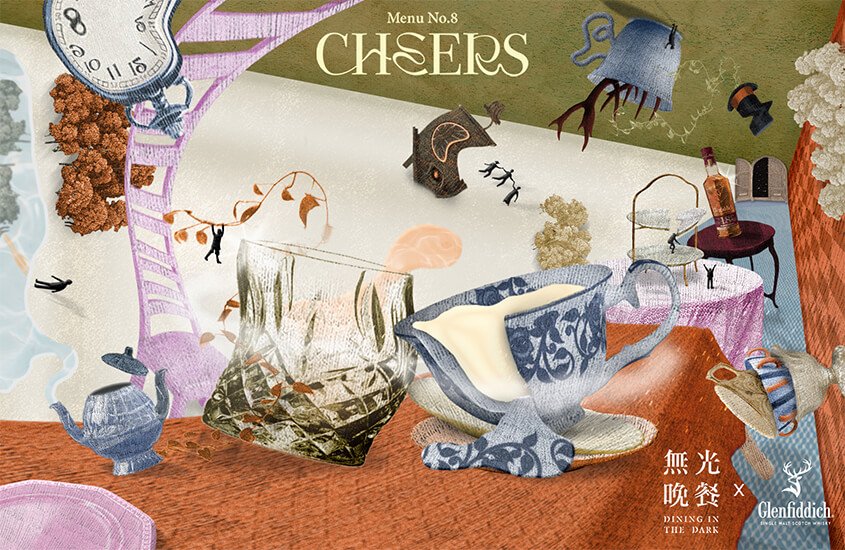
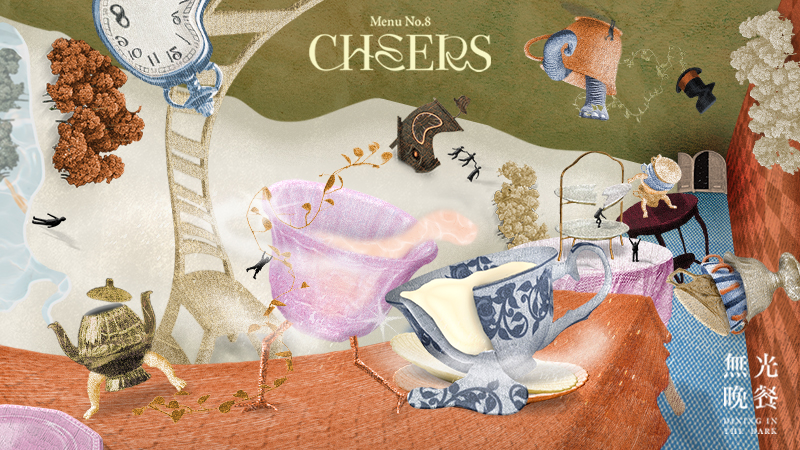
無光格蘭菲迪下線

diff --git a/public/dininginthedark3/js/board-modal.js b/public/dininginthedark3/js/board-modal.js
@@ -60,10 +60,10 @@ $(function() {
     $enter_modal_btn.on('click', function(event) {
         $enter_modal.fadeOut(250, function () {
             $('body').removeClass('modal-open');
-            if ( sessionStorage.getItem('dialog_noshow') !== 'true' ) {
-                $('#enter-dialog').fadeIn();
-                setEnterDialogSize();
-            }
+            // if ( sessionStorage.getItem('dialog_noshow') !== 'true' ) {
+            //     $('#enter-dialog').fadeIn();
+            //     setEnterDialogSize();
+            // }
         });
     });
 

diff --git a/resources/views/dininginthedark3/frontend/booking_pay.blade.php b/resources/views/dininginthedark3/frontend/booking_pay.blade.php
@@ -178,17 +178,11 @@
                             請點選你的預約人數
                         </p>
                         <ul class="prefix-dash">
-                            <!-- <li>單一場次最高可容納 12 人</li>
-                            <li>為維護體驗品質，體驗時將兩人一組入座，且無法併桌</li> -->
-                            <li>無光晚餐僅接受雙數訂位，且必須雙數入席。</li>
+                            <li>無光晚餐僅接受雙數訂位、雙數入席；為維護體驗品質，安排兩人一組入座，且無法併桌</li>
                             <li>單一場次最高可容納 12 人，若人數為12人或以上，歡迎預約包場。請來信客服 dininginthedark@surpriselab.com.tw</li>
-                            <li>無光晚餐每人優惠價格為2,200元/人</li>
-                            <li>票價已含10%服務費</li>
-                            <li>為維護體驗品質，體驗時將兩人一組入座，且無法併桌</li>
+                            <li>無光晚餐每人優惠價格為新台幣2,200元/人 (已含10%服務費)，若遇特殊場次除外</li>
                             <li>若日期無法選擇，代表該場次已滿，或是當日不開放</li>
-                            <!-- <li>8/9及8/11七夕限定場｜熱戀慶祝夜，含獨家愛情調飲與限量祝福禮，優惠價$2,600/人</li> -->
-                            <li>今日起至 7月31日為格蘭菲迪 Glenfiddich 跨界合作限定體驗。</li>
-                            <li style="color: #f7f7c6;">未滿18歲不得飲酒，禁止酒駕。</li>
+                            <!-- <li style="color: #f7f7c6;">未滿18歲不得飲酒，禁止酒駕。</li> -->
                         </ul>
                         <br/><br/>
 
@@ -381,7 +375,7 @@
                                         </select>
                                         <label class="unit">位 Guests</label>
                                     </div>
-                                    <div class="form-col amount">
+                                    <!-- <div class="form-col amount">
                                         <label class="form-label" for="meat_food_noAllAlcohol">
                                             酒精過敏
                                             <span class="en">Alcohol Allergy</span>
@@ -389,7 +383,7 @@
                                         <select id="meat_food_noAllAlcohol" name="meat_food_noAllAlcohol" data-placeholder="選擇人數" required disabled>
                                         </select>
                                         <label class="unit">位 Guests</label>
-                                    </div>
+                                    </div> -->
                                 </div>
                             </div>
                             <div class="form-row">
@@ -426,7 +420,7 @@
                                         </select>
                                         <label class="unit">位 Guests</label>
                                     </div>
-                                    <div class="form-col amount">
+                                    <!-- <div class="form-col amount">
                                         <label class="form-label" for="vegetarian_food_noAlcohol">
                                             酒精過敏
                                             <span class="en">No Alcohol</span>
@@ -434,7 +428,7 @@
                                         <select id="vegetarian_food_noAlcohol" name="vegetarian_food_noAlcohol" data-placeholder="選擇人數" required disabled>
                                         </select>
                                         <label class="unit">位 Guests</label>
-                                    </div>
+                                    </div> -->
                                 </div>
                             </div>
 
@@ -447,7 +441,7 @@
 
                         <div class="field-intro">
                             <br><br>
-                            <p style="color: #f7f7c6; line-height: 1.7;">今日起至7月31日為格蘭菲迪 Glenfiddich 跨界合作體驗，未滿18歲禁止飲酒。</p>
+                            <!-- <p style="color: #f7f7c6; line-height: 1.7;">今日起至7月31日為格蘭菲迪 Glenfiddich 跨界合作體驗，未滿18歲禁止飲酒。</p> -->
                         </div>
                         
                         <div class="form-group radio__button">
@@ -480,7 +474,7 @@
                                 </li>
                                 <li>無光晚餐僅依照顧客過敏狀況調整餐點，請確實填寫餐飲過敏狀況與人數。</li>
                                 <li>無光晚餐將依照訂位過敏資訊準備體驗內容，現場無法更改。</li>
-                                <li><u>格蘭菲迪 Glenfiddich 跨界合作</u>，現場提供有酒精飲品，若因其他因素不能飲用，可告知工作人員不能飲用，無提供無酒精飲品替換。</li>
+                                <!-- <li><u>格蘭菲迪 Glenfiddich 跨界合作</u>，現場提供有酒精飲品，若因其他因素不能飲用，可告知工作人員不能飲用，無提供無酒精飲品替換。</li> -->
                             </ul>
                         </div>
 
@@ -573,8 +567,9 @@
                         <ul>
                             <li>即將跳轉離開網站，進入結帳流程，完成付款。</li>
                             <li>完成付款後，Email信箱中會收到訂位確認信，請前往確認。</li>
-                            <li>八號全新菜單與 格蘭菲迪 跨界合作。</li>
-                            <li>未滿18歲<span style="color: #f7f7c6;">不得參加、不能飲酒。</span></li>
+                            <!-- <li>八號全新菜單與 格蘭菲迪 跨界合作。</li> -->
+                            <!-- <li>未滿18歲<span style="color: #f7f7c6;">不得參加、不能飲酒。</span></li> -->
+                            <li>不開放未滿16歲孩童參加</li>
                         </ul>
 
                         <div class="feature-btn d-flex justify-content-between multi-btn">
@@ -728,9 +723,9 @@
                         <p>&nbsp;</p>
                         <p>
                             再次提醒：<br>
-                            若您有嚴重的乳糖不耐症，請斟酌體驗。<br>
-                            素食套餐僅提供<span style="color: #ff4242;">五辛蛋奶素</span>。<br>
-                            未滿18歲禁止飲酒，且不得參與體驗。
+                            若您有嚴重的乳糖不耐症，不建議前來體驗。<br>
+                            素食套餐僅提供<span style="color: #ff4242;">五辛蛋奶素</span>。
+                            <!-- 未滿18歲禁止飲酒，且不得參與體驗。 -->
                         </p>
                     </div>
                 </div>
@@ -779,10 +774,10 @@
         </ul>
     </aside>
 
-    <div id="notice-banner">
+    <!-- <div id="notice-banner">
         <img class="d-none d-md-block" src="img/general/notice.jpg" alt="無光晚餐 Dining In The Dark">
         <img class="d-block d-md-none" src="img/general/notice_m.jpg" alt="無光晚餐 Dining In The Dark">
-    </div>
+    </div> -->
 
     <!-- Bootstrap -->
     <script src="js/plugins/jquery-3.3.1.min.js"></script>

diff --git a/resources/views/dininginthedark3/frontend/home.blade.php b/resources/views/dininginthedark3/frontend/home.blade.php
@@ -160,7 +160,7 @@ height="0" width="0" style="display:none;visibility:hidden"></iframe></noscript>
                             <div class="section-header">
                                 <div class="section-title">
                                     <h3>體驗內容</h3>
-                                    <h4 style="color: #f7f7c6;">全新8號菜單｜CHEERS！<br>“一場屬於大人的魔幻茶會！”</h4>
+                                    <h4 style="color: #f7f7c6;">全新8號菜單｜CHEERS！<br>“一場慶祝魔幻茶會！”</h4>
                                 </div>
                                 <!-- <p class="section-desc">
                                     <b>6 號菜單 ON AIR</b>
@@ -189,7 +189,7 @@ height="0" width="0" style="display:none;visibility:hidden"></iframe></noscript>
                                                             <!-- 1 -->
                                                             <div class="item">
                                                                 <figure class="slideshow-card">
-                                                                    <img class="img-fluid owl-lazy" data-src="img/home/about/about-intro-1.png?240527" data-src-retina="img/home/about/about-intro-1.png?240527" alt="無光晚餐體驗內容">
+                                                                    <img class="img-fluid owl-lazy" data-src="img/home/about/about-intro-1.jpg?240729" data-src-retina="img/home/about/about-intro-1.jpg?240729" alt="無光晚餐體驗內容">
                                                                 </figure>
                                                             </div>
 
@@ -224,7 +224,7 @@ height="0" width="0" style="display:none;visibility:hidden"></iframe></noscript>
                                                             <!-- 6 -->
                                                             <div class="item">
                                                                 <figure class="slideshow-card">
-                                                                    <img class="img-fluid owl-lazy" data-src="img/home/about/about-intro-6.png?240527" data-src-retina="img/home/about/about-intro-6.png?240527" alt="無光晚餐體驗內容">
+                                                                    <img class="img-fluid owl-lazy" data-src="img/home/about/about-intro-6.png?240729" data-src-retina="img/home/about/about-intro-6.png?240729" alt="無光晚餐體驗內容">
                                                                 </figure>
                                                             </div>
 
@@ -277,7 +277,7 @@ height="0" width="0" style="display:none;visibility:hidden"></iframe></noscript>
                                     <center>
                                         <b>
                                             <u>8號菜單：CHEERS！</u><br>
-                                            <u>格蘭菲迪期間限定</u>
+                                            <!-- <u>格蘭菲迪期間限定</u> -->
                                             <br><br>
                                         </b>
                                     </center>
@@ -319,10 +319,12 @@ height="0" width="0" style="display:none;visibility:hidden"></iframe></noscript>
                                     margin-right: auto;
                                 ">
                                     <!-- <li>8/9及8/11七夕限定場｜含獨家愛情調飲與限量祝福禮，優惠價格$2,600/人</li> -->
-                                    <li>以上價格包含 10% 服務費</li>
+                                    <!-- <li>以上價格包含 10% 服務費</li> -->
                                     <li>體驗皆為雙數入席，無法獨售</li>
                                     <li>現場另提供酒水調飲加購</li>
-                                    <li>體驗提供2杯格蘭菲迪微醺飲品，須滿18歲以上方可預約</li>
+                                    <li>全中文體驗服務</li>
+                                    <!-- <li>體驗提供2杯格蘭菲迪微醺飲品，須滿18歲以上方可預約</li> -->
+                                    <li>為維護體驗品質，未滿16歲以上無法進入體驗</li>
                                 </ul>
 
                                 <div class="ticket-btn">
@@ -1356,7 +1358,7 @@ height="0" width="0" style="display:none;visibility:hidden"></iframe></noscript>
                             </div>
                         </div>
 
-                        <div class="section sec-partner">
+                        <!-- <div class="section sec-partner">
                             <div class="container">
 
                                 <div class="section-header">
@@ -1378,7 +1380,7 @@ height="0" width="0" style="display:none;visibility:hidden"></iframe></noscript>
                                     </div>
                                 </div>
                             </div>
-                        </div>
+                        </div> -->
                     </section>
                 </div>
                 
@@ -1457,10 +1459,10 @@ height="0" width="0" style="display:none;visibility:hidden"></iframe></noscript>
         <div class="dialog-close"></div>
     </div>
 
-    <div id="notice-banner">
+    <!-- <div id="notice-banner">
         <img class="d-none d-md-block" src="img/general/notice.jpg" alt="無光晚餐 Dining In The Dark">
         <img class="d-block d-md-none" src="img/general/notice_m.jpg" alt="無光晚餐 Dining In The Dark">
-    </div>
+    </div> -->
 
     <!-- Bootstrap -->
     <script src="js/plugins/jquery-3.3.1.min.js"></script>

diff --git a/resources/views/dininginthedark3/frontend/rules.blade.php b/resources/views/dininginthedark3/frontend/rules.blade.php
@@ -195,8 +195,7 @@
                                         <div id="qa15" class="collapse" aria-labelledby="qa15-header"
                                             data-parent="#qa-according">
                                             <div class="card-body">
-                                                有的！未滿18歲不得參加。報到前請出示適當的身分證明文件以查驗身分。<br/>
-                                                因八號菜單與格蘭菲迪跨界合作，請理性飲酒，飲酒不開車。
+                                                有的！為顧及黑暗中的體驗品質及安全性，不開放年紀低於16歲之孩童前來體驗。
                                             </div>
                                         </div>
                                     </div>
